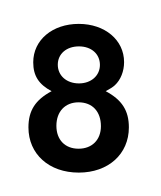
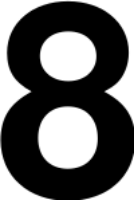
Add the function (with documentation)  that crop out the ROI of a number

diff --git a/src/detection.cc b/src/detection.cc
@@ -4,12 +4,15 @@ const string xml_settings = "data/settings.xml";
 FileStorage fs_xml;
 vector<Mat> templates;
 
+//#define DEBUG
+//#define WAIT
 
 /*! \brief Loads some images and detects shapes according to different colors.
 
     \returns Return 0 if the function reach the end.
 */
 int detection(){
+
     fs_xml.open(xml_settings, FileStorage::READ);
 
     load_number_template();
@@ -249,63 +252,105 @@ int number_recognition(Rect blob, const Mat & base){ //filtering
     if(processROI.empty()){return(-1);}
     
     resize(processROI, processROI, Size(200, 200)); // resize the ROI
-    //my_imshow("Resize num", processROI);
 
     // black filter
     FileNode mask = fs_xml["blackMask"];
     inRange(processROI, Scalar(mask[0], mask[1], mask[2]), Scalar(mask[3], mask[4], mask[5]), processROI);
-    //my_imshow("ROI mask", processROI);
     
     erode_dilation(processROI, 3);
-    #ifdef DEBUG
+    #ifdef WAIT
         my_imshow("ROI filtered", processROI);
     #endif
 
-    //vector<vector<Point>> contours
-    //findContours(processROI, contours, RETR_EXTERNAL, CHAIN_APPROX_SIMPLE);
-    //RotatedRect ellipse = fitEllipse(contours[0]);
-
-    #ifdef TESSERACT
-        // Create Tesseract object
-        tesseract::TessBaseAPI *ocr = new tesseract::TessBaseAPI();
-        // Initialize tesseract to use English (eng) 
-        ocr->Init(NULL, "eng");
-        // Set Page segmentation mode to PSM_SINGLE_CHAR (10)
-        ocr->SetPageSegMode(tesseract::PSM_SINGLE_CHAR);
-        // Only digits are valid output characters
-        ocr->SetVariable("tessedit_char_whitelist", "056789");
-        
-        //tesseract OCR running
-        // Set image data
-        ocr->SetImage(processROI.data, processROI.cols, processROI.rows, 3, processROI.step);
-        // Run Tesseract OCR on image and print recognized digit
-        #ifdef DEBUG
-            cout << "Recognized digit: " << string(ocr->GetUTF8Text()) << endl;
-        #endif
-
-        ocr->End(); // destroy the ocr object (release resources)
-    #else
-        // matching template
-        // Find the template digit with the best matching
-        double maxScore = -5e10;//5e   8;  // I don't know what this number represents...
-        int maxIdx = -1;
-        for (unsigned j=0; j<templates.size(); j++) {
-            Mat result;
-            matchTemplate(processROI, templates[j], result, TM_CCOEFF); //TM_SQDIFF
-            //my_imshow("templates[j]", templates[j], false);
-            //waitKey();
-            double score;
-            minMaxLoc(result, nullptr, &score);
-            if (score > maxScore) {
-                maxScore = score;
-                maxIdx = j;
-            }
+    // crop out the number if it is possible
+    crop_number_section(processROI);
+    
+    // matching template
+    // Find the template digit with the best matching
+    double maxScore = 1e7;  // I don't know what this number represents...
+    int maxIdx = -1;
+    for (unsigned i=0; i<templates.size(); i++) {
+        Mat result;
+        matchTemplate(processROI, templates[i], result, TM_CCOEFF); //TM_SQDIFF
+        double score;
+        minMaxLoc(result, nullptr, &score);
+        if (score > maxScore) {
+            maxScore = score;
+            maxIdx = i;
         }
-        #ifdef DEBUG
-            cout << "Best fitting template: " << maxIdx << " with score of: " << maxScore << endl << endl;
-            waitKey();
-        #endif
-        return(maxIdx);
+    }
+    #ifdef DEBUG
+        cout << "Best fitting template: -> " << maxIdx << " <- with score of: " << maxScore << endl << endl;
+        waitKey();
     #endif
+    return(maxIdx%10);  //if we have 20-30-... templates it return the true number
 }
 
+/*! \brief Given an image identify the region of interest(ROI) and crop it out. 
+
+    \param[in/out] ROI Is the image that the function will going to elaborate.
+*/
+void crop_number_section(Mat & ROI){
+    // Tutorial for the min rectangle arround a shape. https://docs.opencv.org/2.4/doc/tutorials/imgproc/shapedescriptors/bounding_rotated_ellipses/bounding_rotated_ellipses.html
+    vector<vector<Point>> contours;
+
+    findContours(ROI, contours, RETR_EXTERNAL, CHAIN_APPROX_SIMPLE);
+
+    // Find the rotated rectangles for the contour
+    RotatedRect minRect;
+    if(contours.size()==1){
+        minRect = minAreaRect(contours[0]);
+
+        // rotated rectangle
+        Point2f rect_points[4]; 
+        minRect.points( rect_points );
+
+        //alias for semplicity
+        float x = rect_points[0].x;
+        float y = rect_points[0].y;
+        float w = minRect.size.width;
+        float h = minRect.size.height;
+
+        #ifdef DEBUG
+            // Draw contours + rotated rect
+            Mat drawing = Mat::zeros( ROI.size(), CV_8UC3 );
+            RNG rng(12345);
+            Scalar color = Scalar( rng.uniform(0, 255), rng.uniform(0,255), rng.uniform(0,255) );
+            // contours
+            drawContours( drawing, contours, -1, color, 1, 8, vector<Vec4i>(), 0, Point() );
+            cout << endl;
+            for( int i = 0; i < 4; i++ ){
+                //cout << "point[" << i << "] x: " << rect_points[i].x << " y: " << rect_points[i].y << endl;
+                line( drawing, rect_points[i], rect_points[(i+1)%4], color, 1, 8 );
+            }
+            cout << "angle: " << minRect.angle << " x: " << x << " y: " << y << " width: " << w  << " height: " << h << endl;
+            // Show in a window
+            my_imshow("Contours", drawing );
+        #endif
+
+
+        // How RotatedRect angle work: https://namkeenman.wordpress.com/2015/12/18/open-cv-determine-angle-of-rotatedrect-minarearect/
+        Mat corner_pixels, transf_pixels;
+        Size size;
+        if(h > w){
+            // the orientation of the rectangle is to the left
+            corner_pixels = (Mat_<float>(4,2) << rect_points[1].x, rect_points[1].y, rect_points[2].x, rect_points[2].y, rect_points[3].x, rect_points[3].y, x, y);
+            transf_pixels = (Mat_<float>(4,2) << 0, 0, w, 0, w, h, 0, h);
+            size = Size(w, h);
+        } else{
+            // the orientation of the rectangle is to the right
+            corner_pixels = (Mat_<float>(4,2) << rect_points[2].x, rect_points[2].y, rect_points[3].x, rect_points[3].y, x, y, rect_points[1].x, rect_points[1].y);
+            transf_pixels = (Mat_<float>(4,2) << 0, 0, h, 0, h, w, 0, w);
+            size = Size(h, w);
+        }        
+
+        Mat transf = getPerspectiveTransform(corner_pixels, transf_pixels);
+
+        Mat rotNumber;
+        warpPerspective(ROI, ROI, transf, size);
+
+        #ifdef DEBUG
+            my_imshow("rotated Num", ROI);
+        #endif
+    }
+}

diff --git a/src/create_xml.cc b/src/create_xml.cc
@@ -14,6 +14,16 @@ int main(){
         FileStorage fs(filename[i], FileStorage::WRITE);
         cout << "\tWrite on " << filename[i] << endl;
 
+        /*/ map
+        fs << "mapsNames" << "[";                              // text - string sequence
+        fs << ".data/myMap/myMap_01.jpg" << ".data/myMap/myMap_02.JPG" << ".data/myMap/myMap_03.JPG" << ".data/myMap/myMap_04.JPG" << ".data/myMap/myMap_05.JPG" << ".data/myMap/myMap_06.JPG" << ".data/myMap/myMap_07.JPG" << ".data/myMap/myMap_08.JPG" << ".data/myMap/myMap_09.JPG" << ".data/myMap/myMap_10.JPG" << ".data/myMap/myMap_11.JPG";
+        fs << "]";                                            // close sequence
+
+        // map_unwrapped
+        fs << "mapsUnNames" << "[";                              // text - string sequence
+        fs << ".data/myMap/myMapUN_01.jpg" << ".data/myMap/myMapUN_02.JPG" << ".data/myMap/myMapUN_03.JPG" << ".data/myMap/myMapUN_04.JPG" << ".data/myMap/myMapUN_05.JPG" << ".data/myMap/myMapUN_06.JPG" << ".data/myMap/myMapUN_07.JPG" << ".data/myMap/myMapUN_08.JPG" << ".data/myMap/myMapUN_09.JPG" << ".data/myMap/myMapUN_10.JPG" << ".data/myMap/myMapUN_11.JPG";
+        fs << "]";                                           // close sequence*/
+
         // map
         fs << "mapsNames" << "[";                              // text - string sequence
         fs << "./data/map/01.jpg" << "./data/map/02.jpg" << "./data/map/03.jpg";
@@ -22,7 +32,7 @@ int main(){
         // map_unwrapped
         fs << "mapsUnNames" << "[";                              // text - string sequence
         fs << "./data/map/01_UN.jpg" << "./data/map/02_UN.jpg" << "./data/map/03_UN.jpg";
-        fs << "]";                                            // close sequence
+        fs << "]";                                            // close sequence*/
         
         fs << "calibrationFile" << "./data/intrinsic_calibration.xml";
 
@@ -36,7 +46,7 @@ int main(){
         fs << "kernelSide" << 9;
         fs << "convexHullFile" << "data/convexHull.xml";
         fs << "templatesFolder" << "data/num_template/";
-        fs << "templates" << "[" << "0.png" << "1.png" << "2.png" << "3.png" << "4.png" << "5.png" << "6.png" << "7.png" << "8.png" << "9.png" << "]";
+        fs << "templates" << "[" << "0.png" << "1.png" << "2.png" << "3.png" << "4.png" << "5.png" << "6.png" << "7.png" << "8.png" << "9.png" << "0_inv.png" << "1_inv.png" << "2_inv.png" << "3_inv.png" << "4_inv.png" << "5_inv.png" << "6_inv.png" << "7_inv.png" << "8_inv.png" << "9_inv.png" << "]";
 
         fs.release();                                       // explicit close
         

diff --git a/src/unwrapping.cc b/src/unwrapping.cc
@@ -2,7 +2,7 @@
 
 //debug block the most things, wait only something
 //#define DEBUG
-//#define WAIT
+#define WAIT
 
 #define area_ratio 0.7
 
